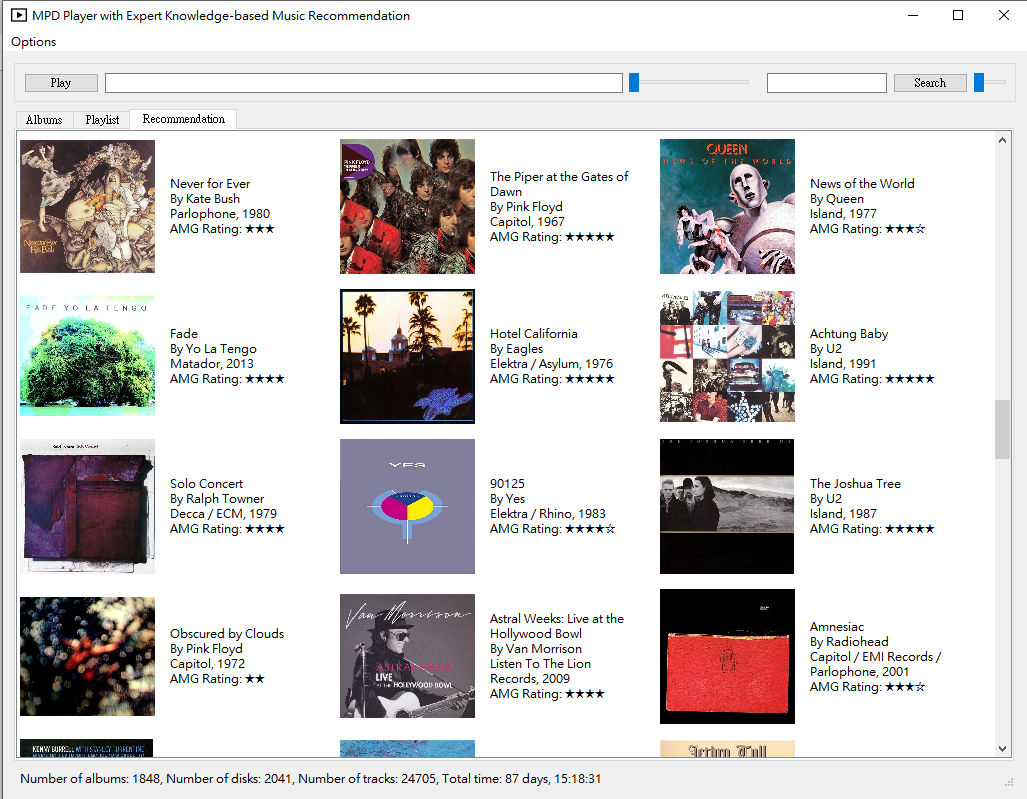
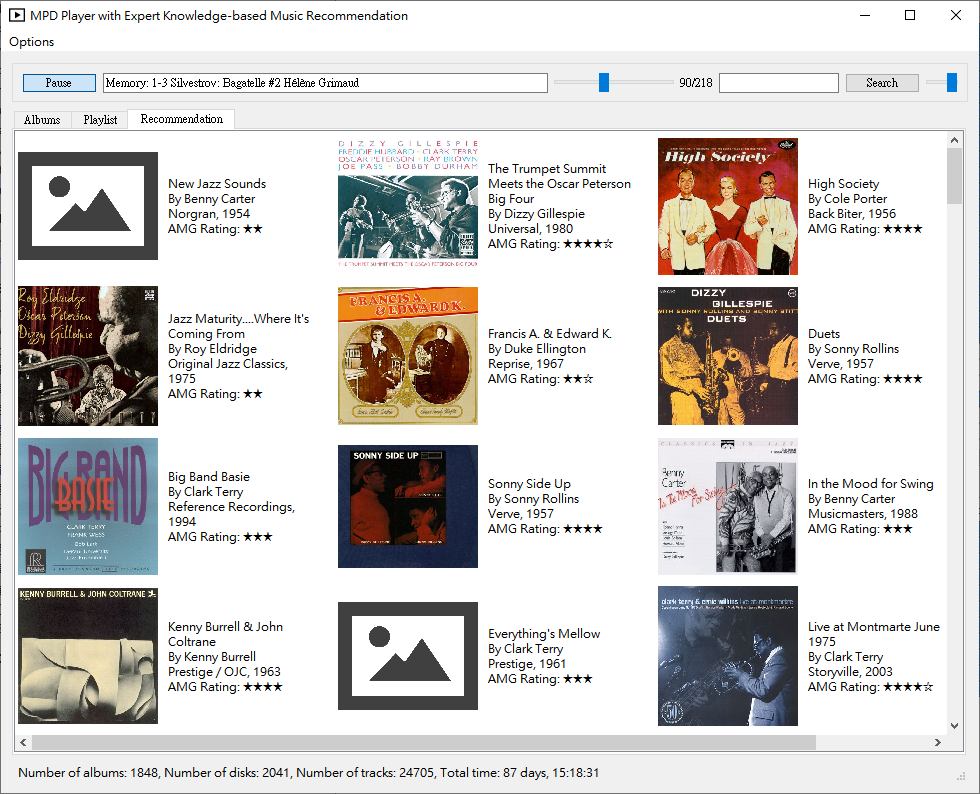
update recommendation ui

diff --git a/kb/kb_prediction.py b/kb/kb_prediction.py
@@ -105,16 +105,42 @@ def top_list(entity_type):
     data.sort()
     return data
 
+def lcs(str1, str2):
+    str1 = list(str1)
+    str2 = list(str2)
+    table = {}
+    for i in range(len(str1)+1):
+        for j in range(len(str2)+1):
+            score = 0
+            if i == 0 or j == 0:
+                table[(i, j)] = 0
+            else:
+                if str1[i-1] == str2[j-1]:
+                    table[(i, j)] = 1 + table[(i - 1, j - 1)]
+                else:
+                    table[(i, j)] = max(table[(i-1, j)], table[(i, j-1)])
+    return float(table[(len(str1), len(str2))]) / min(len(str1), len(str2))
+    
+def search_collection(collection, data):
+    for album in collection:
+        if lcs(data["title"].lower(), album.title.lower()) >= 0.85 and lcs(data["artist"].lower(), album.artist.lower()) >= 0.85:
+            return True
+    return False
+
 def get_recommendation_list(collection, num_items):
     results = {"album": []}
     albums = database.load_albums()
-    for _, album_link in top_list("album")[:num_items]:
+    for _, album_link in top_list("album"):
         if album_link not in albums:
             print(album_link + " is not found")
             continue
         data = albums[album_link]
+        if search_collection(collection, data):
+            continue
         data['cover_path'] = database.get_cover_path(album_link, data['cover_link'])
         results['album'].append(data)
+        if len(results['album']) >= num_items:
+            break
     return results
 
 if __name__ == "__main__":
